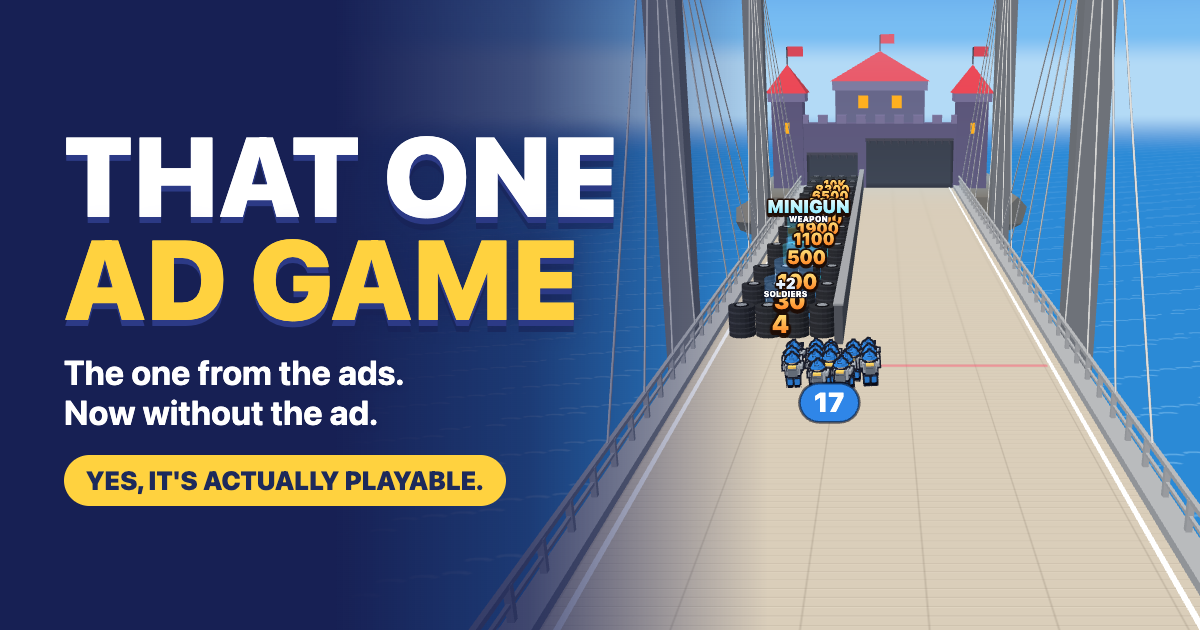
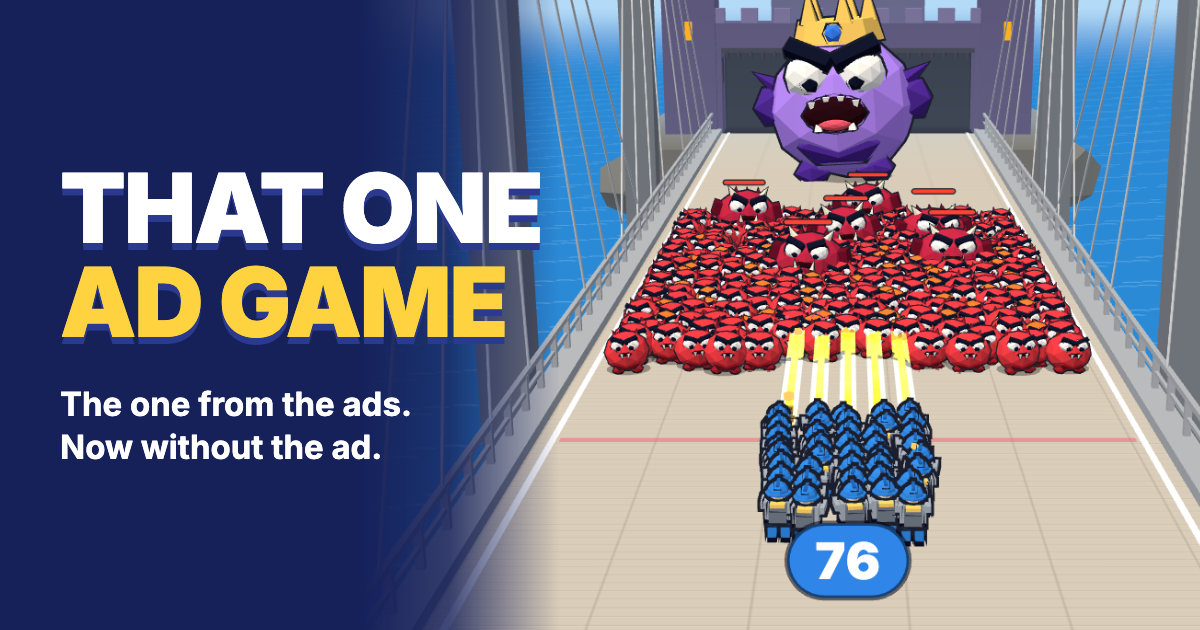
chore: a social preview full of monsters
The link preview showed a near-empty bridge. It now shows the squad firing
into a wall of red monsters with the boss looming behind them, and drops
the "Yes, it's actually playable" pill.

diff --git a/index.html b/index.html
@@ -23,7 +23,7 @@
     <meta property="og:image:height" content="630" />
     <meta
       property="og:image:alt"
-      content="That One Ad Game: a blue squad on a bridge, power-up blocks and a castle"
+      content="That One Ad Game: a blue squad fires into a wall of red monsters and a crowned boss on the bridge"
     />
     <meta name="twitter:card" content="summary_large_image" />
     <meta name="twitter:creator" content="@moe_zerr" />

diff --git a/README.md b/README.md
@@ -5,7 +5,7 @@
 **[Play it in the browser](https://cdmoe.github.io/that-one-ad-game/)**
 News on X: [@moe_zerr](https://x.com/moe_zerr)
 
-![That One Ad Game: the squad on the bridge, power-up blocks on the left, the castle ahead](public/og-image.png)
+![That One Ad Game: a blue squad fires into a wall of red monsters and a crowned boss on the bridge](public/og-image.png)
 
 You've seen this game in a hundred ads. Here it is, and you can actually play it. Drag the squad,
 shoot whatever comes down the bridge, lose, buy upgrades, go again. Works with one thumb on a phone
